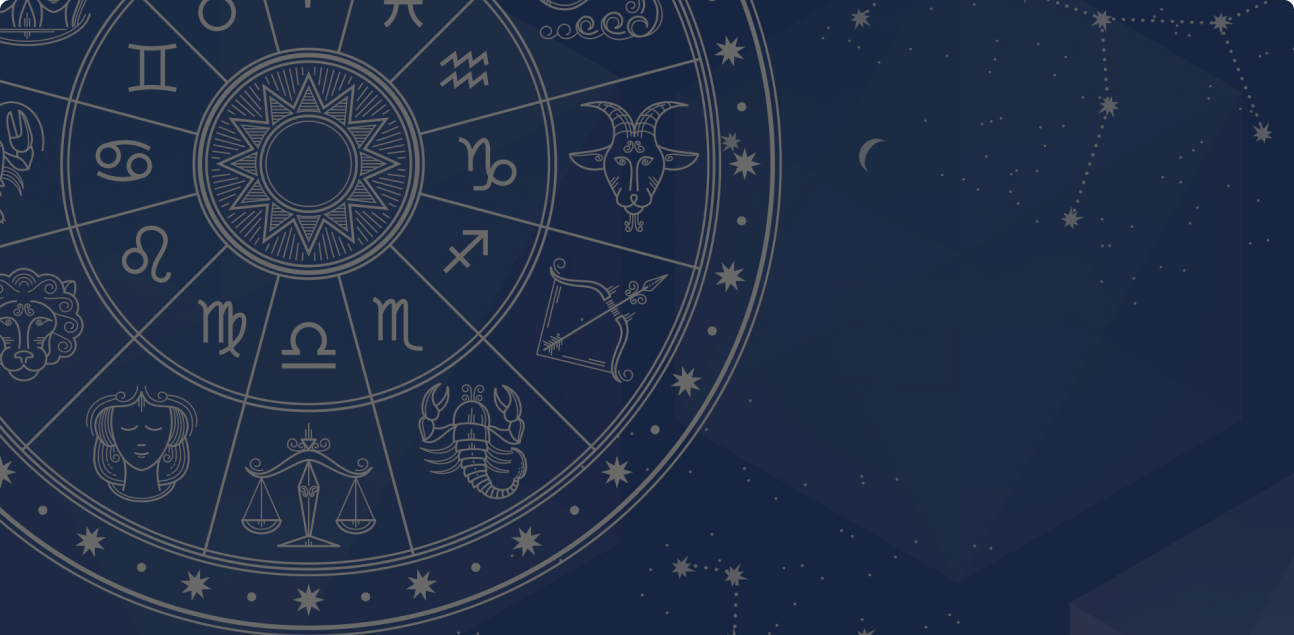
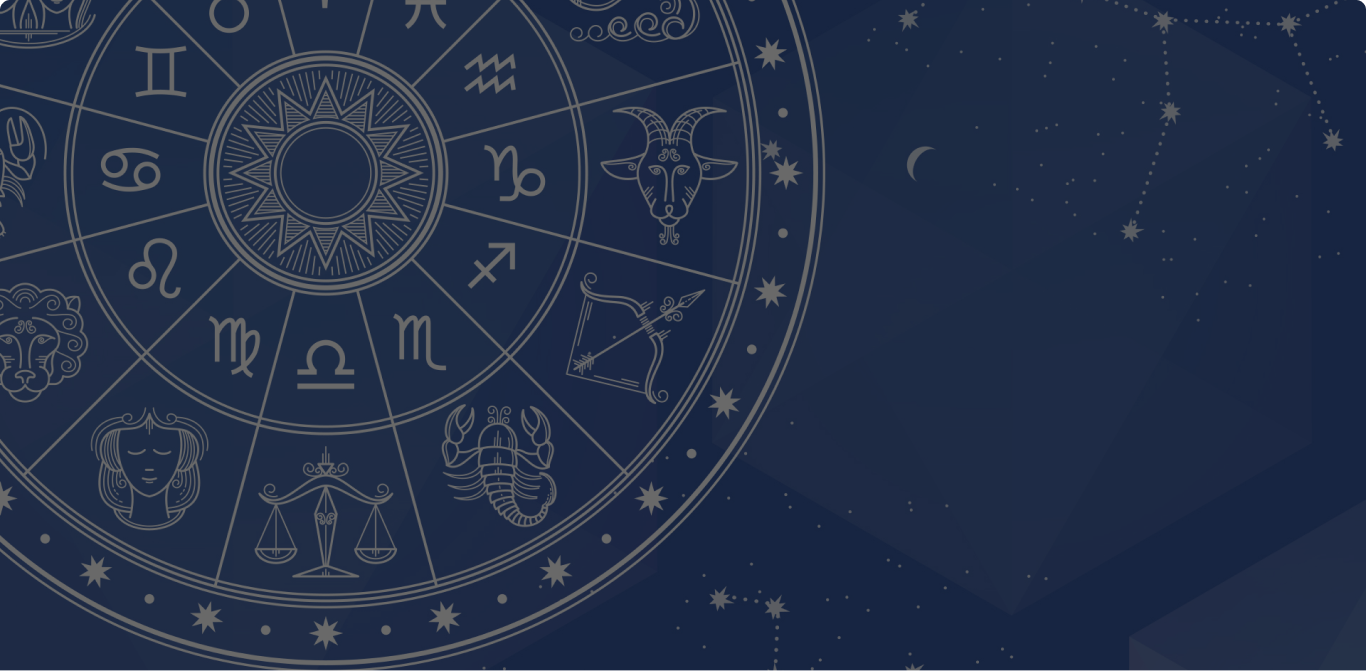
Criação dos destaques usando o Swiper Slider

diff --git a/src/Components/Features/Feature.jsx b/src/Components/Features/Feature.jsx
@@ -1,14 +1,26 @@
 import React from 'react'
-import { register } from 'swiper/element/bundle';
-// register Swiper custom elements
+import { Swiper, SwiperSlide } from "swiper/react"
+
+// Import Swiper styles
+import "swiper/css"
+import "swiper/css/navigation"
+import styles from './Feature.module.css'
+
+// Os módulos que usaremos no Swiper Slider
+import { Navigation } from "swiper"
+
+import Img1 from '../../Assets/images/bkg/bkg-horoscopo.png'
+import Img2 from '../../Assets/images/bkg/bkg-europa.png'
+import Img3 from '../../Assets/images/bkg/bkg-computador.png'
 
 const Feature = () => {
+
     return (
-        <swiper-container slides-per-view="1" speed="500" loop="false">
-            <swiper-slide>Slide 1</swiper-slide>
-            <swiper-slide>Slide 2</swiper-slide>
-            <swiper-slide>Slide 3</swiper-slide>
-        </swiper-container>
+        <Swiper className={styles.carousel} navigation={true} modules={[Navigation]} loop={true}>
+            <SwiperSlide><img src={Img1} alt="" /></SwiperSlide>
+            <SwiperSlide><img src={Img2} alt="" /></SwiperSlide>
+            <SwiperSlide><img src={Img3} alt="" /></SwiperSlide>
+        </Swiper>
     )
 }
 

diff --git a/src/App.js b/src/App.js
@@ -13,7 +13,7 @@ function App() {
         <BrowserRouter>
             <Header />
                 <main className="container">
-                    {/* <Feature /> */}
+                    <Feature />
                     <div className="content-1280 d-grid">
                         <Routes>
                             <Route path='/' element={<Home />} />

diff --git a/src/App.css b/src/App.css
@@ -197,12 +197,12 @@ main {
 
 .container {
     width: 100%;
-    padding-top: 20px;
 }
 
 .container > .d-grid {
     grid-template-columns: 1fr 350px;
     gap: 24px;
+    padding-top: 20px;
 }
 
 .category {

diff --git a/src/Components/Features/Feature.module.css b/src/Components/Features/Feature.module.css
@@ -1,0 +1,9 @@
+.carousel {
+    width: 100%;
+}
+
+.carousel img {
+    width: 100%;
+    max-height: 370px;
+    object-fit: cover;
+}

diff --git a/src/api.js b/src/api.js
@@ -1,1 +1,1 @@
-const API_HREF = 'https://localhost:3000';
+export const API_URL = 'https://localhost:3000';
